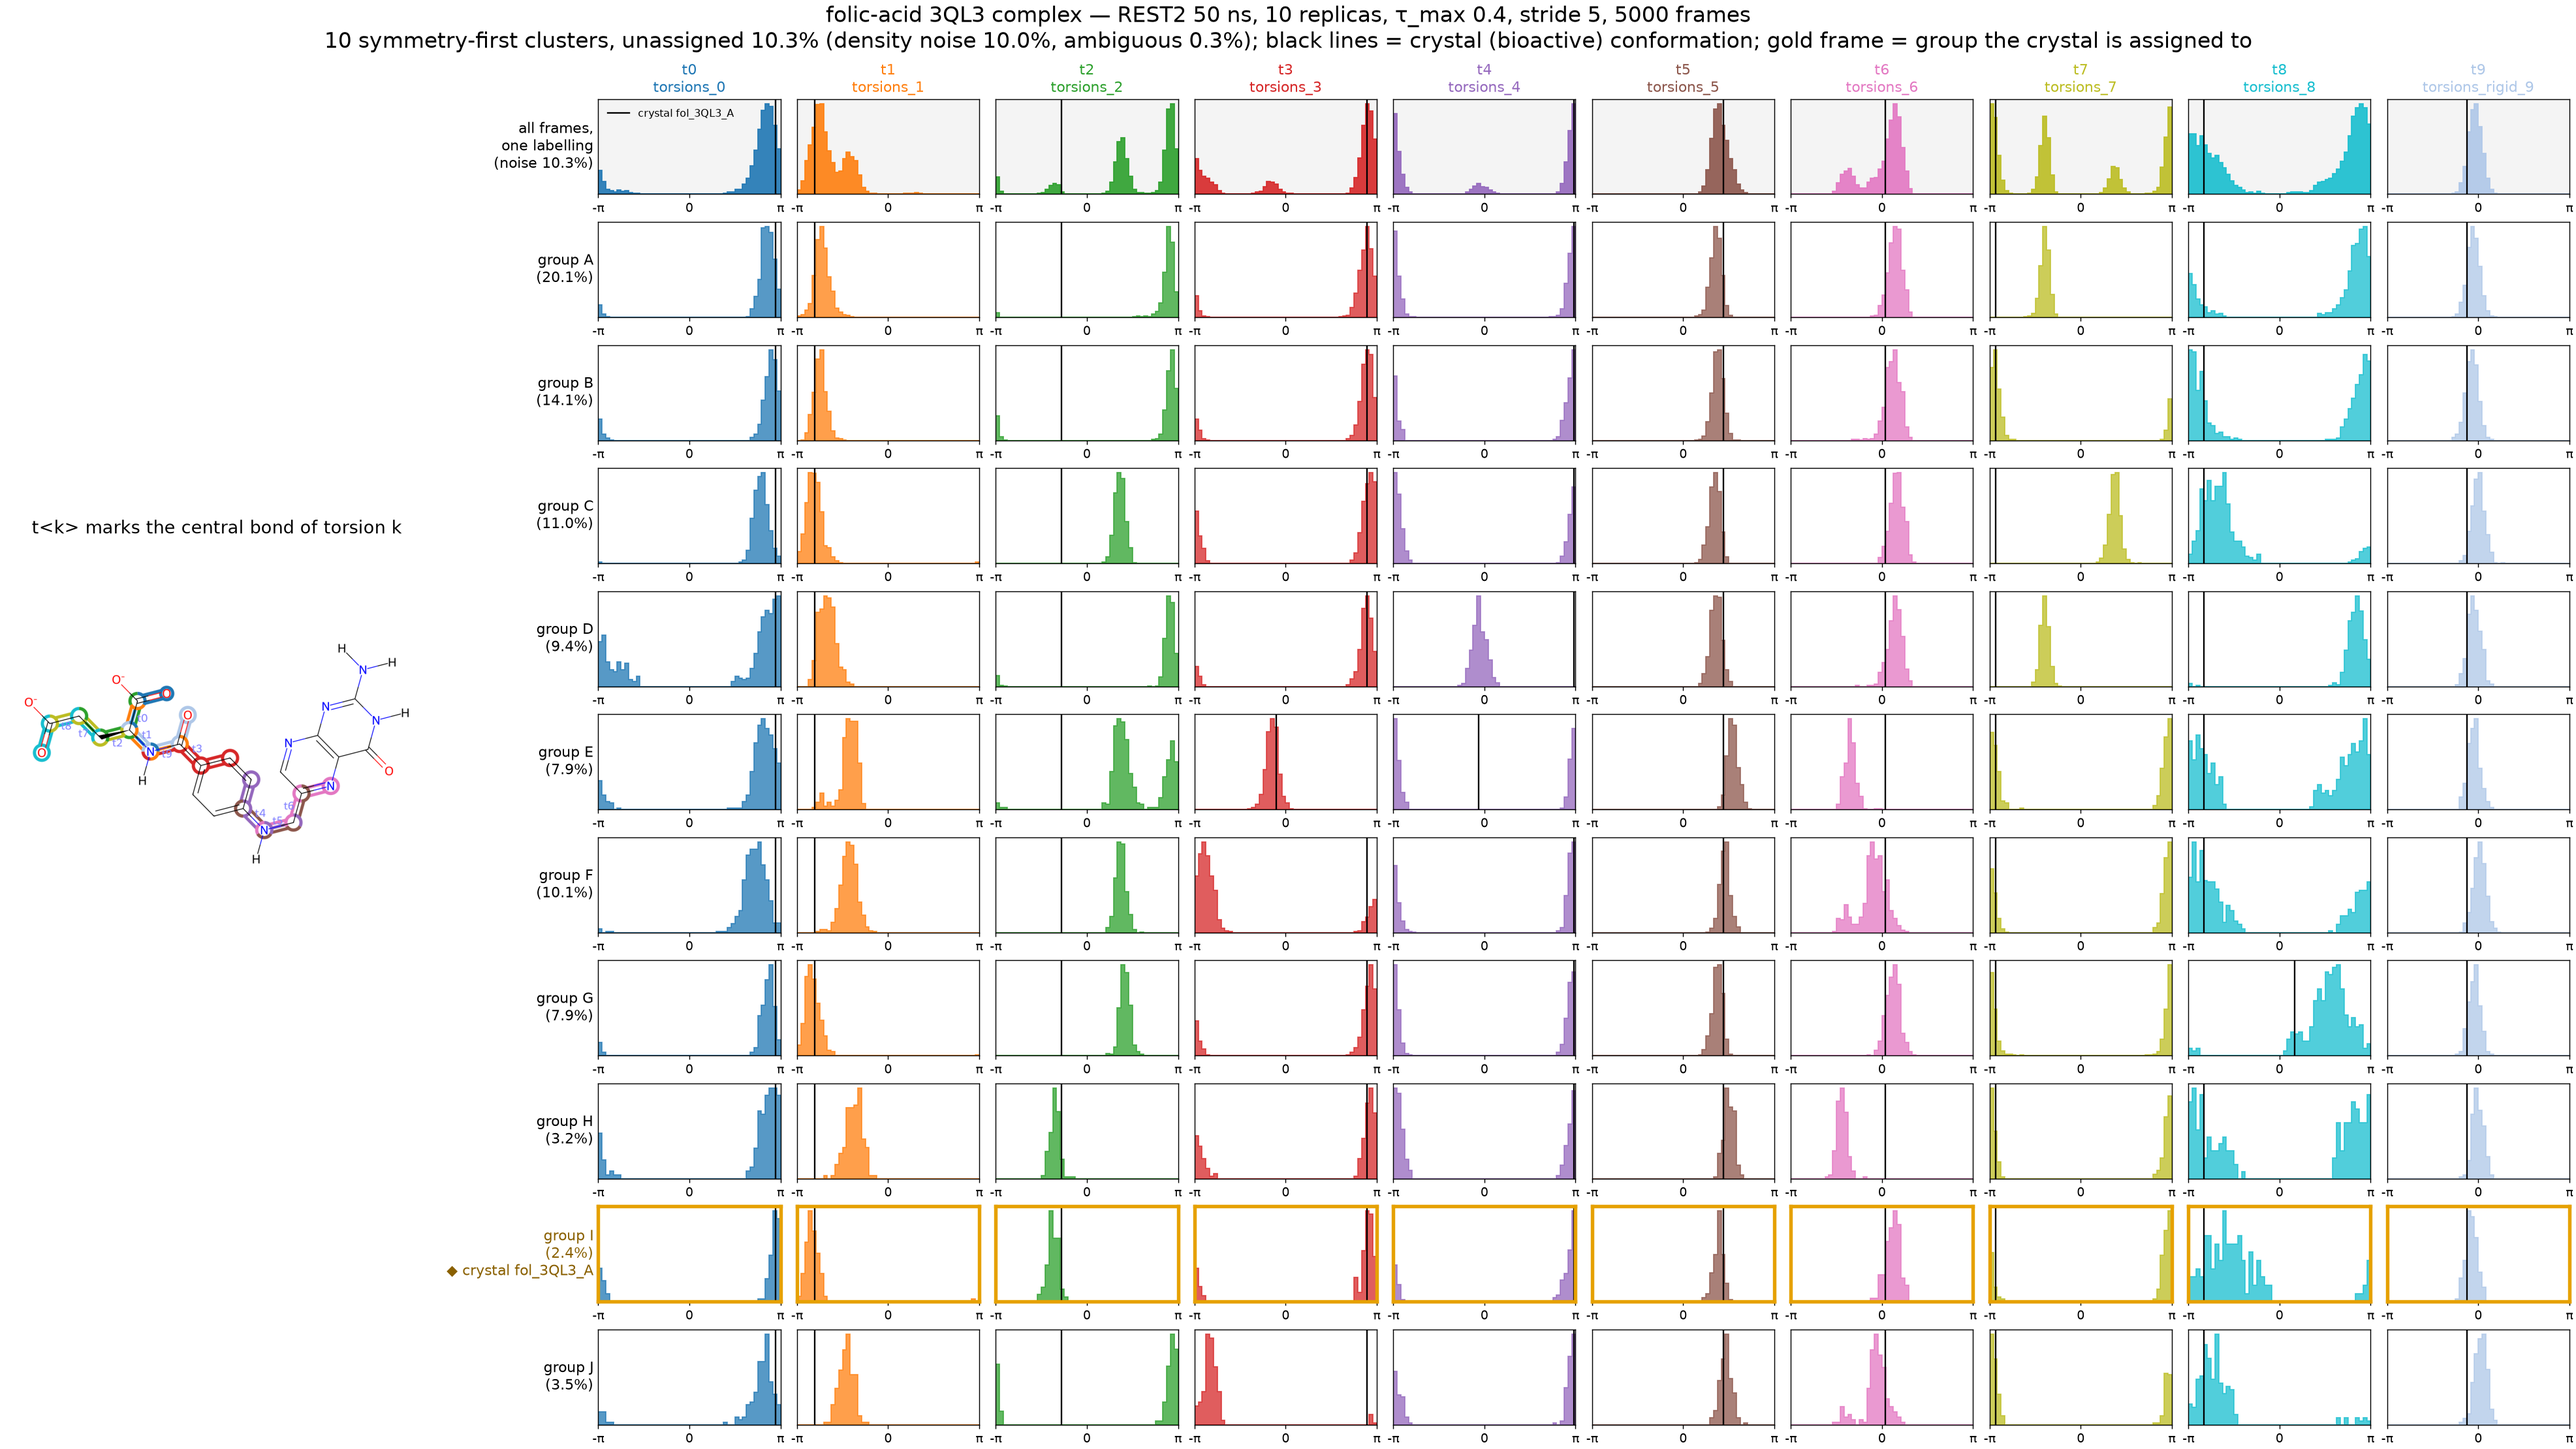
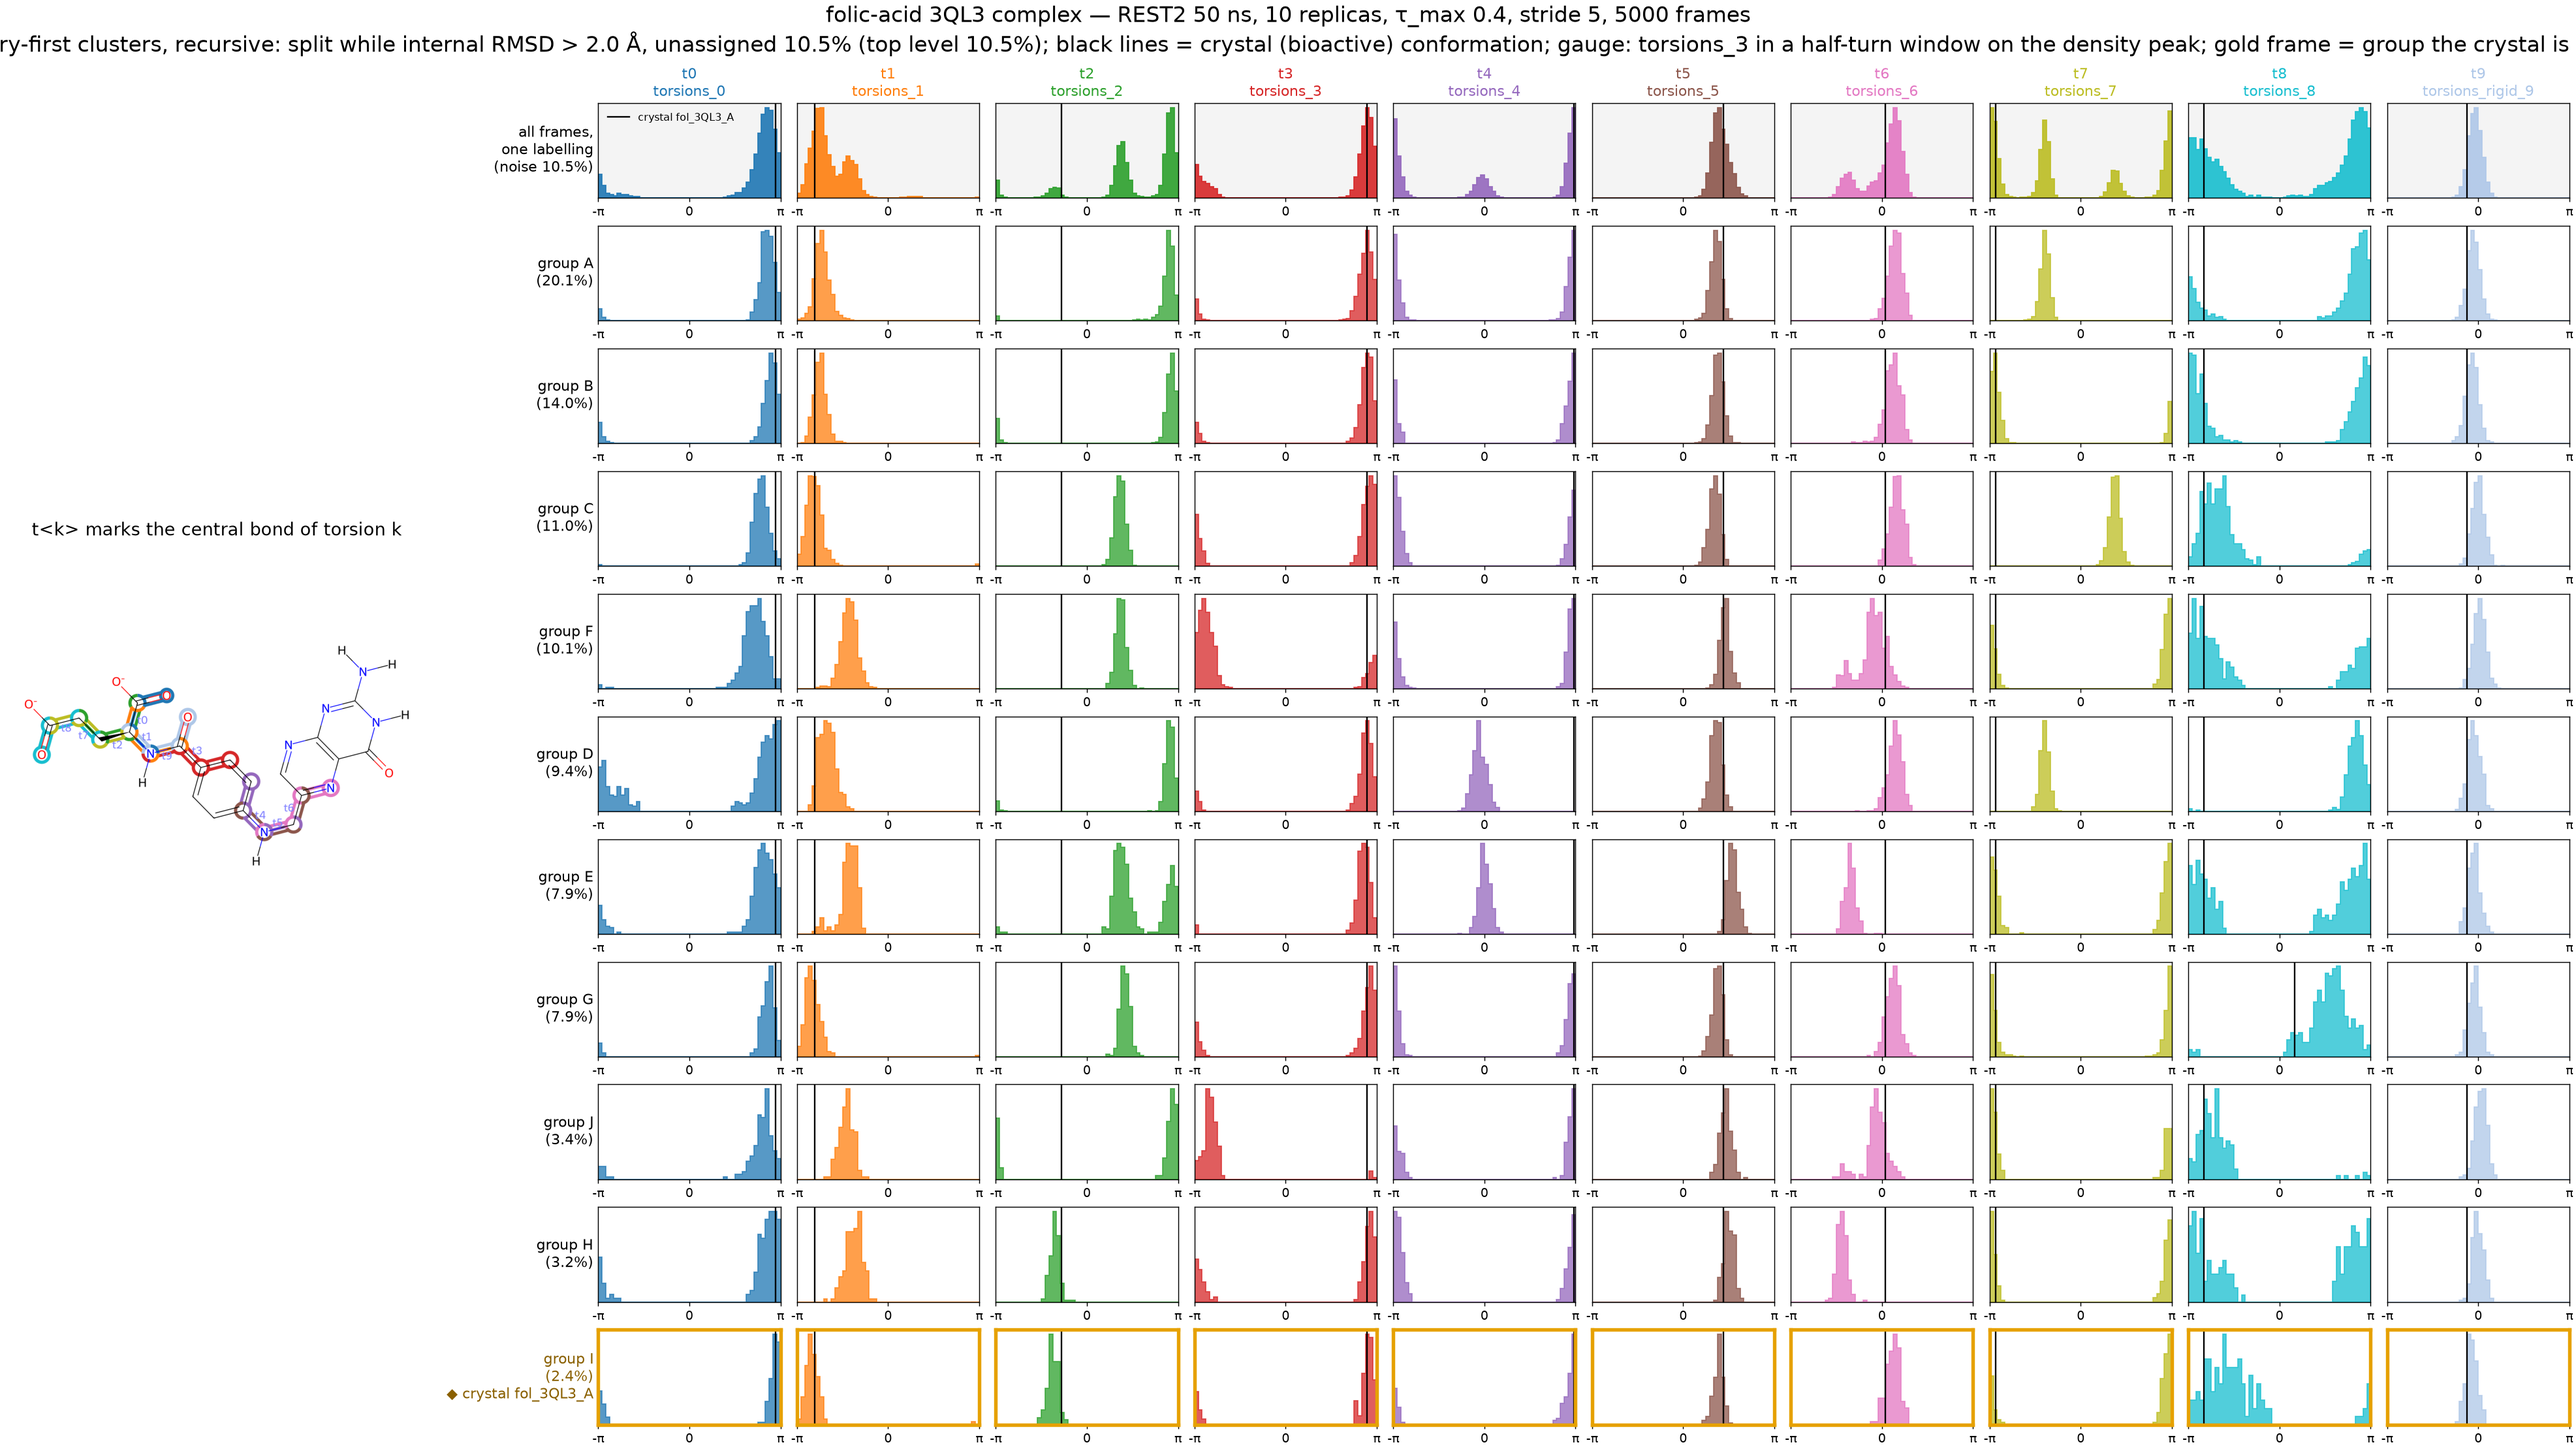
HDBSCAN reports: recursive splitting, gauge, cluster network + inter-cluster RMSD; folic acid results

diff --git a/analysis/report/conformational_entropy.py b/analysis/report/conformational_entropy.py
@@ -9,7 +9,8 @@ partitioning by barrier cuts, MD-tools 306b109), one figure per clustering metho
 figure come from exactly one algorithm with one set of settings: the script reads each run's own
 record (summary.json) and stops if route, settings or md-tools version differ between points.
 
-  pi_c   HDBSCAN: cluster masses renormalised over the frames assigned to a cluster (noise and
+  pi_c   HDBSCAN: the final clusters (leaves of the recursive split, merged_groups.json), masses
+         renormalised over the frames assigned to a cluster (noise and
          ambiguous frames are left out; their fraction is in the CSV). A run where no cluster is found
          (NO_CLUSTER.txt: one basin, e.g. 4ibi bound) is drawn at e^S = 1 with a hollow marker.
          Barrier cuts: every frame is labelled; all clusters.
@@ -74,12 +75,14 @@ def read_run(d, method, blocks):
     s = json.load(open(f"{d}/summary.json"))
     lab = pd.read_csv(f"{d}/labels.csv").iloc[:, 2].astype(str).to_numpy()
     if method == "hdbscan":
-        masses = s["cluster_mass"]
-        p = list(masses.values()) if isinstance(masses, dict) else list(masses)
-        names = [letters(i) for i in range(len(p))]          # labels.csv names clusters A, B, ... by index
+        # the FINAL clusters: with recursive splitting these are the leaves of the split tree, which
+        # merged_groups.json holds (masses as fractions of all frames) and labels.csv names
+        groups = json.load(open(f"{d}/merged_groups.json"))["masses"]
+        names, p = list(groups), list(groups.values())
         rec = {"route": s["route"], "allow_single_cluster": s["allow_single_cluster"], "mass_floor": s["mass_floor"],
-               "vote": json.dumps(s.get("vote"), sort_keys=True, default=str)}
-        unassigned = float(s.get("unassigned_mass", 1.0 - sum(p)))
+               "vote": json.dumps(s.get("vote"), sort_keys=True, default=str),
+               "recursive": os.path.exists(f"{d}/tree.csv")}
+        unassigned = float(1.0 - sum(p))
         clusters = [str(n) for n in names]
     else:
         p = list(s["cluster_mass"].values())

diff --git a/analysis/report/prepare.py b/analysis/report/prepare.py
@@ -130,6 +130,7 @@ def main():
            [a.GetSymbol().upper() for a in water_mol.GetAtoms()], "water topology and SDF atom order differ"
 
     manifest = {"name": args.name, "version": row["version"], "stride": int(row["stride"]),
+                "gauge": row.get("gauge") or None,                     # torsion position for cluster_prune --gauge
                 "max_matches": row["max_matches"] or None,
                 "water": {"label": "water", "run": wrun, "traj": f"{work}/water.nc", "top": f"{work}/water.pdb",
                           "sdf": f"{work}/water.sdf", "torsions": tdir,

diff --git a/results/folic-acid/5_v4-crystal-waters-3H/README.md b/results/folic-acid/5_v4-crystal-waters-3H/README.md
@@ -1,6 +1,6 @@
 # folic-acid -- 5_v4-crystal-waters-3H
 
-Made by `analysis/report/report.sbatch` (Slurm job 29363278, 2026-11-02, md-tools 0.6.5.2); state 0, stride 5.
+Made by `analysis/report/report.sbatch` (Slurm job 29620716, 2026-11-04, md-tools 0.6.5.2); state 0, stride 5.
 
 | system | run | crystal reference |
 |---|---|---|
@@ -21,9 +21,7 @@ Torsions t0..t9 (the same in every figure; rotatable, then rigid, then polar-H; 
 - t8: `27 28 29 30`  #FOL1-C17 FOL1-C18 FOL1-C19 FOL1-O5 | rotatable
 - t9: `3 4 5 6`  #FOL1-C2 FOL1-N1 FOL1-C3 FOL1-O3 | rigid amide-like C-N
 
-Figures: `*_water_clusters.png` / `*_<PDB>_clusters.png` (symmetry-first clustering, no single cluster), `*_rmsd_density.png` (ligand conformation vs crystal, water vs complex), `*_binding.png` (complex: pocket-frame RMSD, ligand-pocket COM, contacts, native Q), `*_water_vs_complex.png` (torsion distributions).
-
-
+Figures: `*_water_clusters.png` / `*_<PDB>_clusters.png` (symmetry-first clustering, no single cluster, recursive splitting while internal RMSD > 2 A, mass floor 0.5 %, 19-of-20 vote), `*_intercluster_rmsd.png` and `*_cluster_network.png`, `*_rmsd_density.png` (ligand conformation vs crystal, water vs complex), `*_binding.png` (complex: pocket-frame RMSD, ligand-pocket COM, contacts, native Q), `*_water_vs_complex.png` (torsion distributions).
 
 ## Torsion partitioning (barrier cuts)
 

diff --git a/analysis/report/README.md b/analysis/report/README.md
@@ -19,7 +19,9 @@ every complex ligand by matching the heavy-atom graph. t<k> is therefore the sam
 figures, also when the complex uses a different package (3QL3: folate as the 3H tautomer).
 
 `compounds.csv`: water run (+ extensions joined, e.g. 5mwh/5ov8 run1 + ext1), complexes as
-`<PDB>=<run>=<crystal SDF>`, crystal SDFs for the water clustering, stride, automorphism cap. Run folders
+`<PDB>=<run>=<crystal SDF>`, crystal SDFs for the water clustering, stride, automorphism cap, and `gauge`:
+the torsion position for cluster_prune's --gauge where one symmetry moves two torsions together (first
+torsion of that pair; folate t3 = the pABA ring, paracetamol t0 = aryl as in Shu-Yu's tutorial). Run folders
 are relative to `$THESIS`, crystal SDFs to the repository. Environment: `analysis-env-main`
 (MD-tools c30c1c0 = 0.6.5.2).
 
